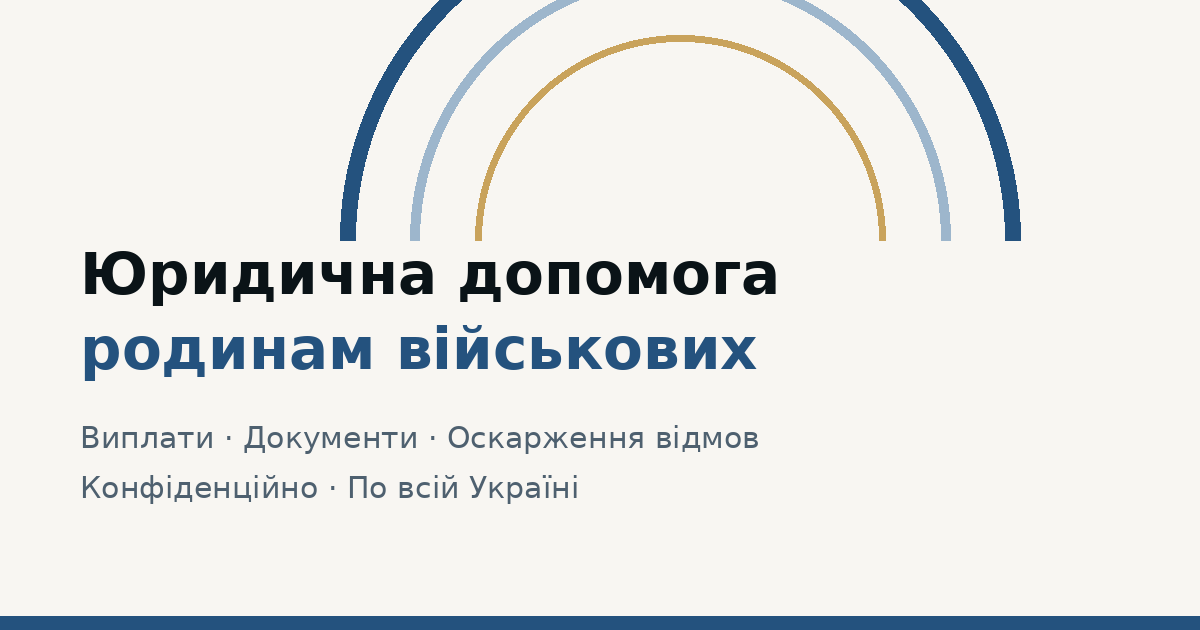
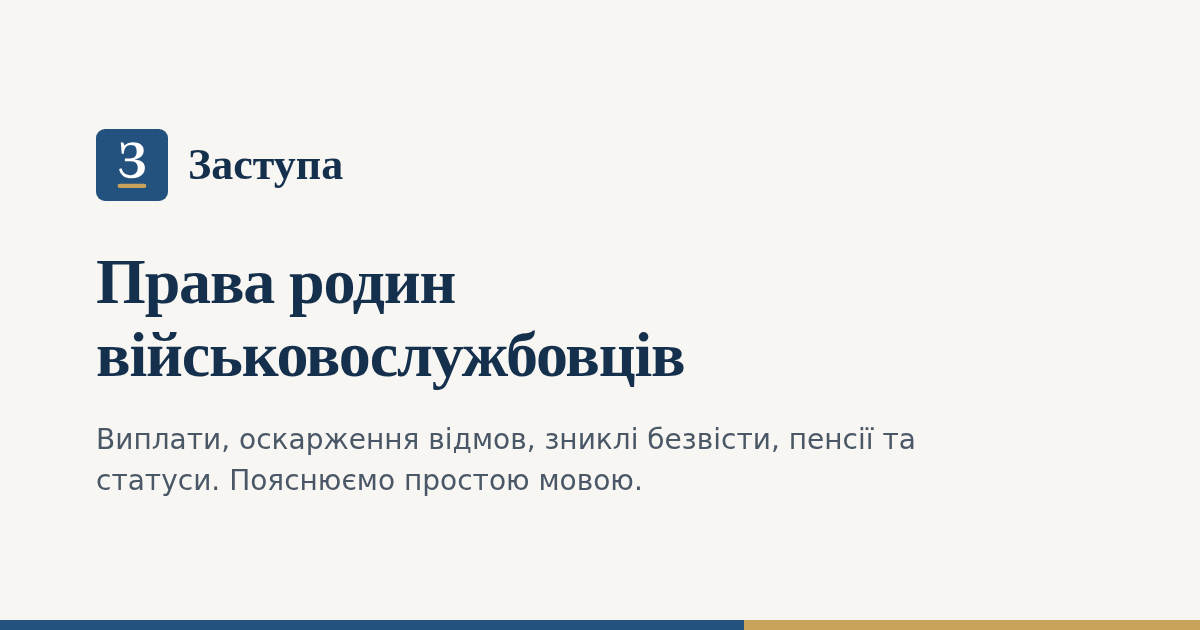
Знак «Заступа»: монограма З замість портика
Портик був універсально юридичним — міг би належати будь-якій фірмі
чи банку і про «Заступу» не казав нічого. Для бренду, якого ніхто ще
не знає, головна робота знака — прив'язатися до назви.

Літера обведена як path із самої Literata (opsz=40, wght=600 — той
самий малюнок, що в заголовках сайту), а не набрана через <text>.
Причина: у фавіконі й у поштових клієнтах шрифту немає взагалі, а на
сайті знак «стрибав» би на Georgia до завантаження Literata.
Контур витягнуто fontTools із woff2 у node_modules.

Оновлено разом:
  BrandMark.tsx  — шапка, мобільне меню
  app/icon.svg   — фавікон (був placeholder із зіркою)
  public/og.png  — прев'ю для месенджерів, зібрано в реальних шрифтах
                   сайту: знак, назва, дескриптор і брендова смуга

Перевірено: icon.svg віддається як image/svg+xml, og.png 43 КБ,
aria-label знака — «Заступа».

diff --git a/src/components/BrandMark.tsx b/src/components/BrandMark.tsx
@@ -1,15 +1,19 @@
 /**
- * Знак практики.
+ * Знак «Заступа» — монограма «З».
  *
- * Портик (фронтон + три колони + цоколь) — стриманий, однозначно
- * юридичний мотив, який читається навіть на 24px. Свідомо без терезів
- * Феміди: у бібліотечних іконках у них тонкі лінії, що на малому розмірі
- * зливаються і виглядають обрізаними зверху.
+ * ЧОМУ МОНОГРАМА. Головна робота знака для бренду, якого ніхто не знає, —
+ * прив'язатися до назви. Попередній варіант (портик) був універсально
+ * юридичним: він міг би належати будь-якій фірмі чи банку і не казав про
+ * «Заступу» нічого. Монограма називає бренд одразу.
  *
- * Попередній варіант із двох арок на 32px читався як веселка —
- * не той настрій для практики, яка працює з родинами загиблих.
+ * ЧОМУ КОНТУР, А НЕ <text>. Літера обведена як path із самої Literata
+ * (вісь opsz=40, wght=600 — той самий малюнок, що в заголовках сайту).
+ * Якби тут стояв <text font-family="Literata">, знак «стрибав» би на
+ * Georgia доти, доки не завантажиться шрифт, а у фавіконі й у листах
+ * шрифту немає взагалі — там була б чужа літера.
  *
- * Золота лінія цоколя — той самий акцент, що й на решті сайту.
+ * Золота риска під літерою — та сама деталь, що в цоколі старого знака
+ * і в акцентах на сторінках.
  */
 export function BrandMark({ size = 32 }: { size?: number }) {
   return (
@@ -19,23 +23,17 @@ export function BrandMark({ size = 32 }: { size?: number }) {
       viewBox="0 0 40 40"
       xmlns="http://www.w3.org/2000/svg"
       role="img"
-      aria-label="Знак практики"
+      aria-label="Заступа"
       style={{ display: 'block', flexShrink: 0 }}
     >
       <rect width="40" height="40" rx="5" fill="var(--brand-navy, #24527E)" />
-      {/* Фронтон */}
-      <path d="M20 9 31 15.8 H9 Z" fill="#FFFFFF" />
-      {/* Колони */}
-      <rect x="11.8" y="18.4" width="3.2" height="9.2" fill="#FFFFFF" />
-      <rect x="18.4" y="18.4" width="3.2" height="9.2" fill="#FFFFFF" />
-      <rect x="25" y="18.4" width="3.2" height="9.2" fill="#FFFFFF" />
-      {/* Цоколь */}
+      <path d="M19.76 27.4Q18.5 27.4 17.35 27.11Q16.21 26.83 15.28 26.21Q14.35 25.58 13.71 24.6Q13.07 23.61 12.83 22.22L14.24 21.79Q14.56 23.25 15.32 24.1Q16.07 24.95 17.07 25.31Q18.07 25.67 19.09 25.67Q20.32 25.67 21.25 25.18Q22.17 24.69 22.68 23.77Q23.2 22.85 23.2 21.56Q23.2 20.54 22.9 19.83Q22.61 19.13 22.06 18.69Q21.51 18.26 20.73 18.07Q19.95 17.88 18.96 17.88H16.05V16.44H18.71Q19.83 16.44 20.72 16.01Q21.6 15.57 22.11 14.69Q22.62 13.8 22.62 12.44Q22.62 11.16 22.21 10.37Q21.79 9.57 21.08 9.2Q20.37 8.83 19.44 8.83Q18.33 8.83 17.45 9.37Q16.57 9.9 16.04 10.97Q15.51 12.04 15.44 13.69L14.3 13.7L13.76 7.52H15.15L15.78 9.22Q16.25 8.7 16.94 8.29Q17.63 7.88 18.53 7.64Q19.43 7.4 20.55 7.4Q21.74 7.4 22.81 7.66Q23.88 7.92 24.72 8.47Q25.56 9.03 26.04 9.89Q26.52 10.76 26.52 11.97Q26.52 13.29 25.89 14.28Q25.27 15.28 24.16 15.92Q23.06 16.56 21.62 16.83V16.96Q23.37 17.08 24.61 17.63Q25.85 18.18 26.51 19.16Q27.17 20.14 27.17 21.58Q27.17 23.22 26.3 24.54Q25.42 25.86 23.76 26.63Q22.1 27.4 19.76 27.4Z" fill="#FFFFFF" />
       <rect
-        x="9"
-        y="29.6"
-        width="22"
-        height="2.6"
-        rx="1.3"
+        x="12"
+        y="30.4"
+        width="16"
+        height="2.4"
+        rx="1.2"
         fill="var(--brand-gold, #C9A35C)"
       />
     </svg>
